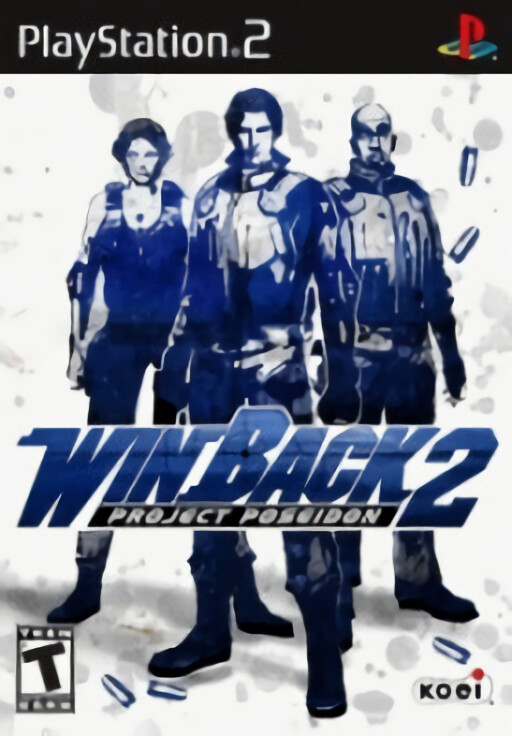
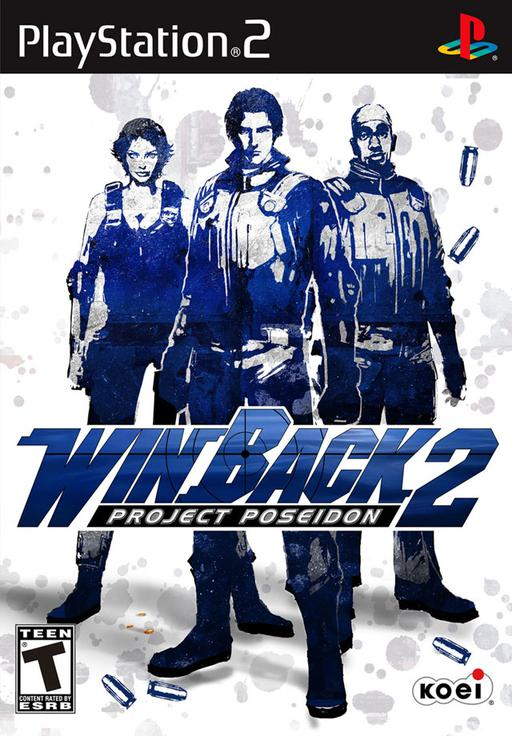
Added Covers

diff --git a/README.md b/README.md
@@ -29,7 +29,7 @@
 | SLED | 0/52 | 0.00% |
 | SLES | 2876/3069 | 93.71% |
 | SLKA | 168/261 | 64.37% |
-| SLPM | 2380/2728 | 87.24% |
+| SLPM | 2410/2728 | 88.34% |
 | SLPS | 1129/1288 | 87.66% |
 | SLUS | 1720/1944 | 88.48% |
 | TCES | 0/12 | 0.00% |
@@ -61,5 +61,6 @@ This is an alternative in case you don't want to be copying and pasting the repo
 ## Credits
 * pcsx2.net
 * psxdatacenter.com
+* gvcover.top
 * imkira3
 * waifu2x
